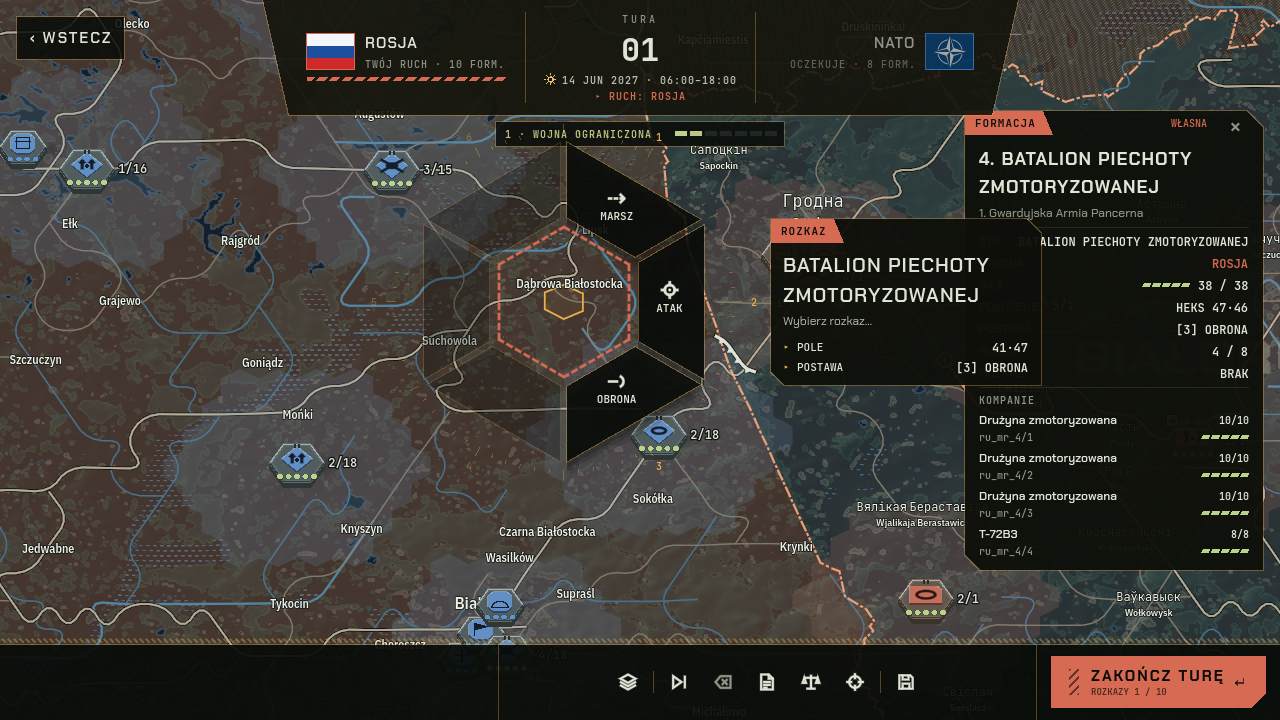
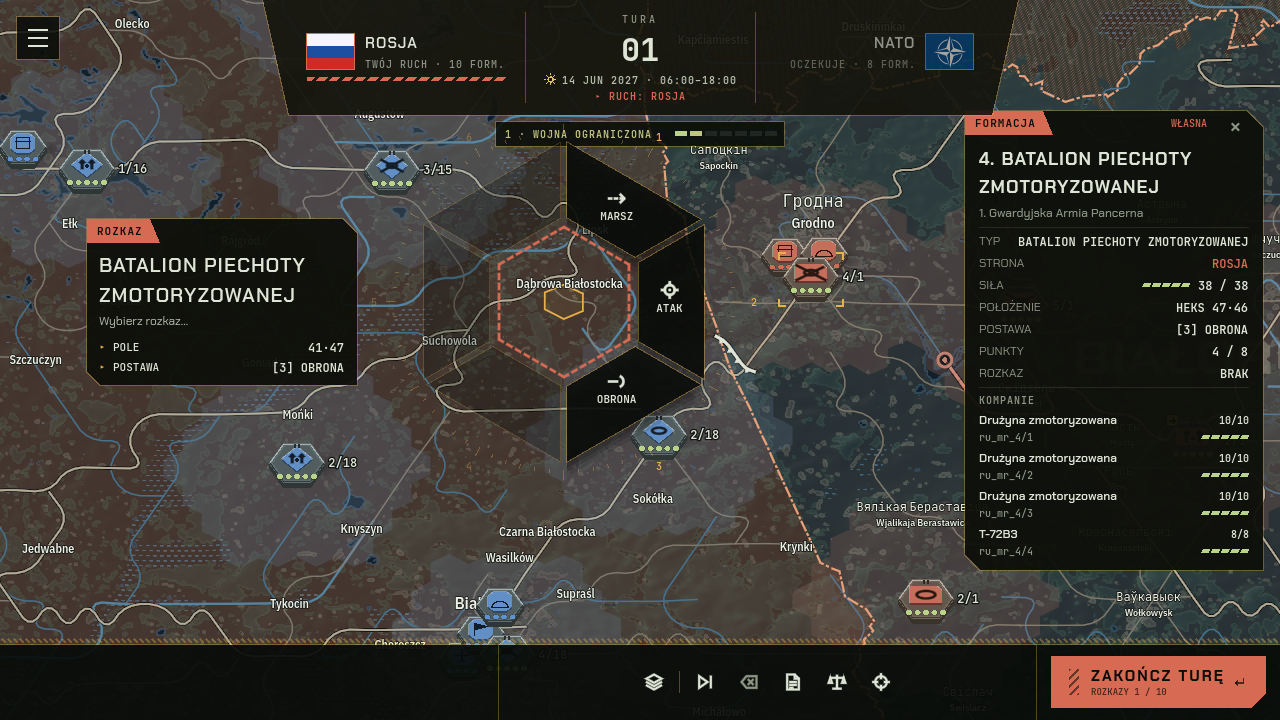
TASK-129: staff map order ring and its card keep clear of the docked formation panel

diff --git a/docs/tasks/BACKLOG.md b/docs/tasks/BACKLOG.md
@@ -178,7 +178,7 @@ Operational map principle (human, 2026-11-07, GDD "Operational map"): hexes are 
 | [TASK-124](TASK-124-menu-reorganisation.md) | Menu reorganisation: Start scenario (scenario list + map preview, back), Unit catalog (back), Settings (language, sound; back) | 🔵 done | – (soft: TASK-084, TASK-123) |
 | [TASK-127](TASK-127-side-flags-in-ui.md) | Side flags next to side names: shared flag component, first in the battle result notice (headline + side tabs), then the staff map top bar and contact notice | 🔵 done | – (soft: TASK-120) |
 | [TASK-128](TASK-128-auto-resolve-defence-calibration.md) | Auto-resolve calibration: defending on hills wins 94 % in auto-resolve vs 56 % in played battles ("fortress" gap); measure, tune or fix AI attacking fortified positions until win shares differ by ≤ 20 points | 🟢 ready | TASK-120 |
-| [TASK-129](TASK-129-staff-map-cards-overlap.md) | Staff map: the order ring card overlaps the formation card (seen in the README staff_map shot) | 🟢 ready | – |
+| [TASK-129](TASK-129-staff-map-cards-overlap.md) | Staff map: the order ring card overlaps the formation card (seen in the README staff_map shot) | 🔵 done | – |
 | [TASK-130](TASK-130-battle-turn-bar-flags.md) | Tactical battle turn bar: side flag and faction flag per player (new `FactionDefinition.flag`, Polish flag asset) | 🔵 done | – |
 
 **Rule: every operational task is clickable (decided 2026-11-07).** Each task of the operational layer ships something the human can **see and click** in the staff map (TASK-093a) – a command is not done until a button, key or click gives it and the result is drawn; a task whose only check is a unit test or an implementation-notes log is split or merged with the task that shows it. The "Playtest (for the human)" section lists concrete clicks (what to press, what appears), never "None – no view yet"; core and view criteria sit in the same task, the view reading state and events only (architecture rule 3). Pure rules still get unit tests first (rule 6). Order of the first slice, each step playable: 093a (map) → 092b (counters, panel) → 093b (End turn, sides) → 092c (route preview) → 092d (orders) → 092e (execution) → 093c (front line) → 094 / 120 / 095 (contact, battle, result). **Reworked 2026-11-07:** TASK-113 … 118, 121, 122 now each carry their own visible part (borders, stance tints + F9 debug panel, level in the turn bar, route warnings, the Decisions panel, allied counters, the Support tab); TASK-119 shrank to a read-only overview. **Still to rework before they are specified** (playtest section says "None"): TASK-097a / 097b are specified (2026-11-09); TASK-099 / 100 / 096 (each with its marker or overlay); TASK-094 was split on 2026-11-07 into 094a (notice) → 094b (battle map) → 094c (play, return) → 094d (campaign save), each with its own clicks; TASK-103 (headless simulation) stays a tool but gets a report page in devtools.

diff --git a/docs/tasks/TASK-129-staff-map-cards-overlap.md b/docs/tasks/TASK-129-staff-map-cards-overlap.md
@@ -1,6 +1,6 @@
 # TASK-129: Staff map – order ring card overlaps the formation card
 
-- **Status**: ready
+- **Status**: done
 - **Layers**: presentation
 - **Depends on**: –
 - **Sections**: docs/design/operational_map (cards, order ring), docs/design/hud_v3/README.md §04
@@ -31,4 +31,4 @@ none
 
 ## Implementation notes
 
-_Filled in by the agent when done._
+`RadialRingGeometry.card_position_avoiding` (pure, tested in test_radial_ring_geometry.gd at 1280×720 and 1920×1080, ring at many positions incl. right edge) keeps the order card off a given rect: right side, then left, then above/below the rect. `StaffMapOrderRing` takes an optional `avoid` callable; `StaffMap._panel_rect()` supplies the docked formation panel rect. No visual redesign, no mockup deviation. `docs/images/staff_map.png` regenerated: the order card now sits left of the ring, both cards readable.
